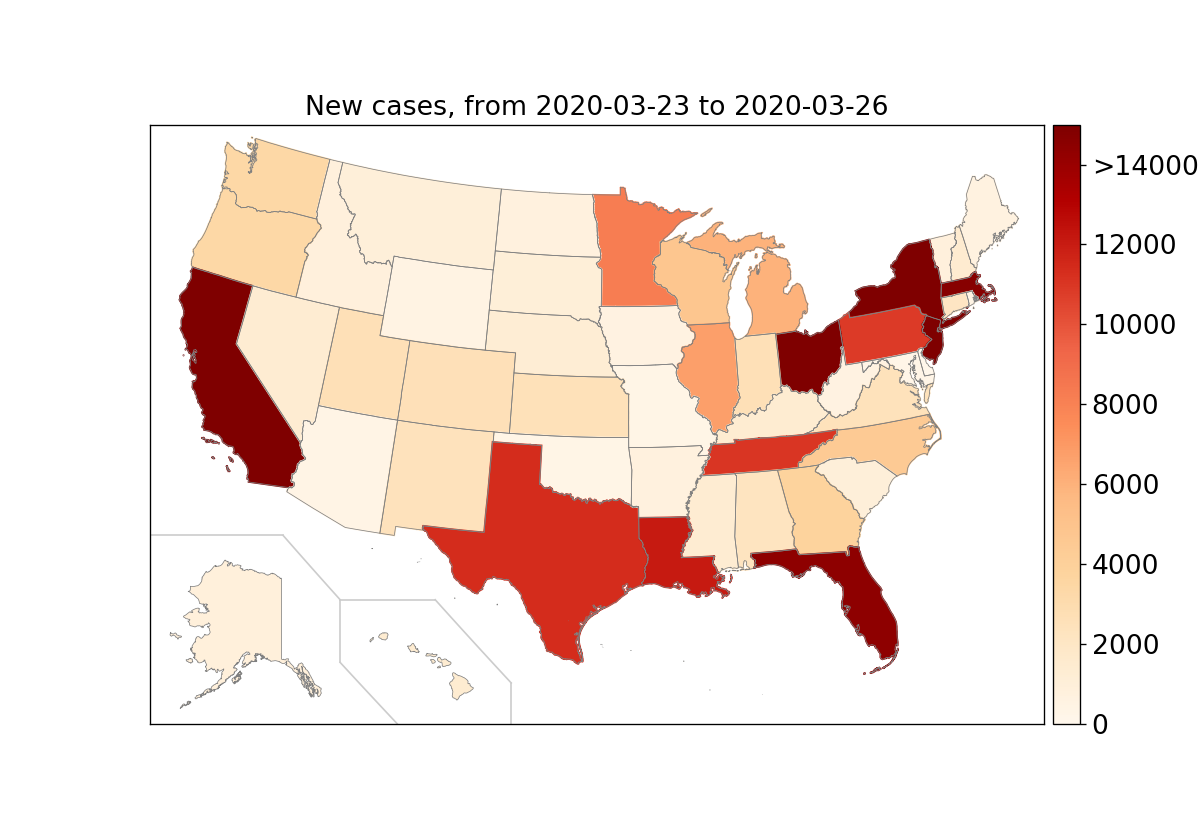
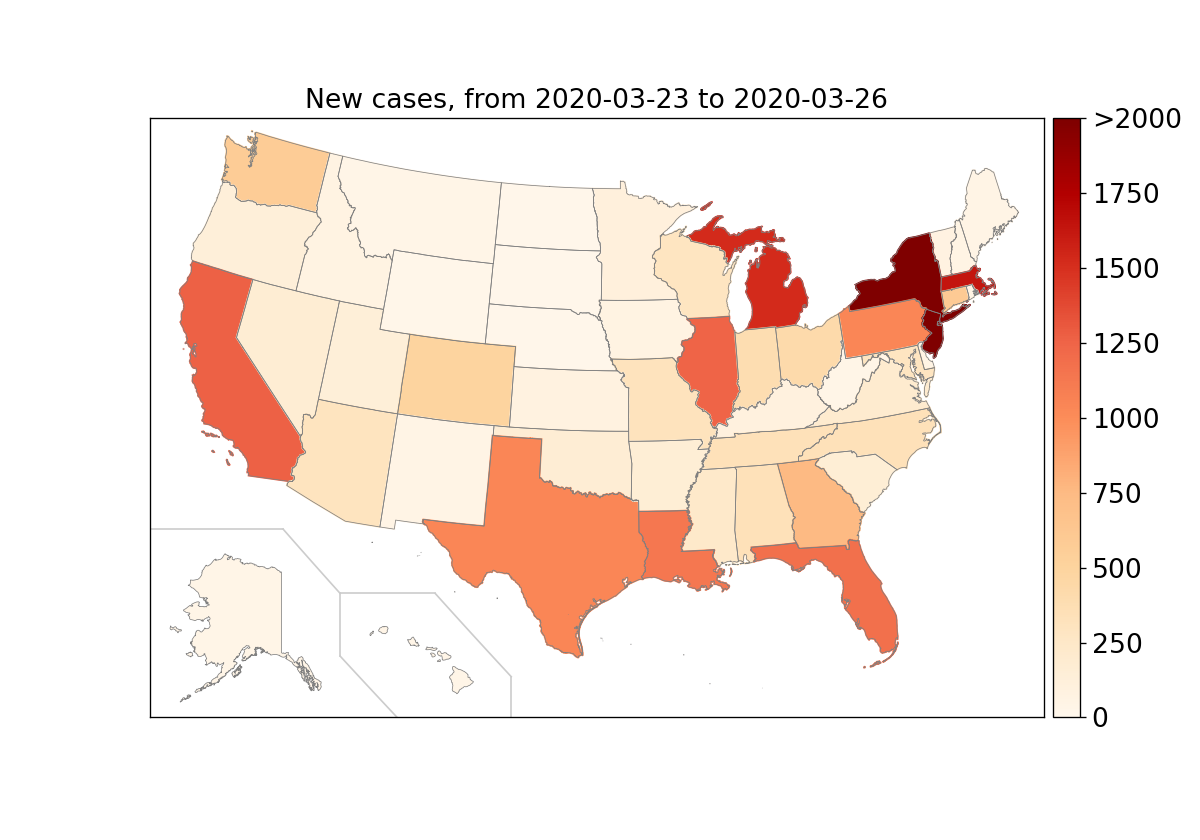
Correct error in increase rate map; re-plot all past 5 days

diff --git a/scripts/Map_positive_case_increase_rate.py b/scripts/Map_positive_case_increase_rate.py
@@ -8,7 +8,7 @@ data_url = 'https://raw.githubusercontent.com/COVID19Tracking/covid-tracking-dat
 
 df = pd.read_csv(data_url)
 hlp.exclude_overseas_territory_records(df)
-trend_df = df.pivot(index='date', columns='state', values='total')
+trend_df = df.pivot(index='date', columns='state', values='positive')
 
 today = hlp.get_today(trend_df)
 three_days_ago = today - datetime.timedelta(days=3)
@@ -18,7 +18,7 @@ fig, ax = pu.choropleth_map_state(
     three_day_increase,
     map_title=f'New cases, from {three_days_ago} to {today}',
     unit='',
-    vmax=30000,
+    vmax=4000,
     vmin=0,
     dpi=120,
     fontsize=16,
